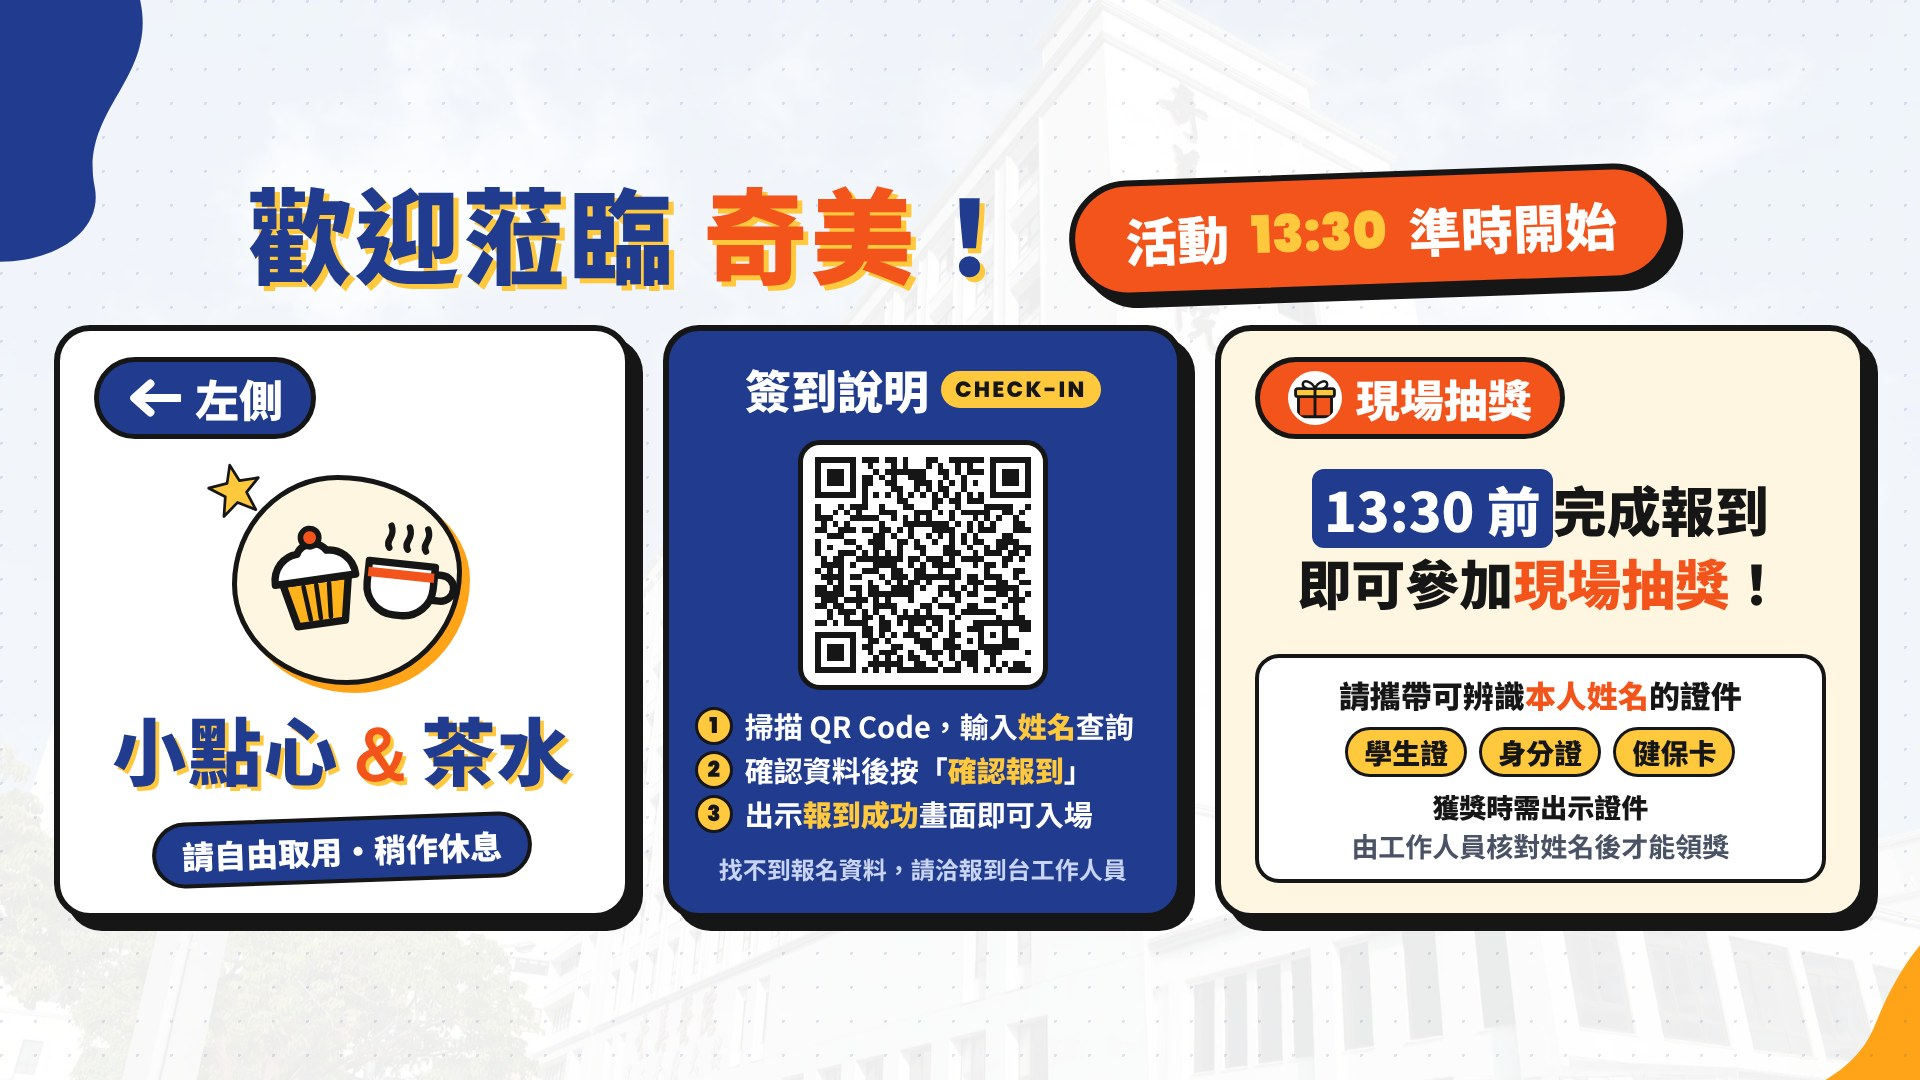
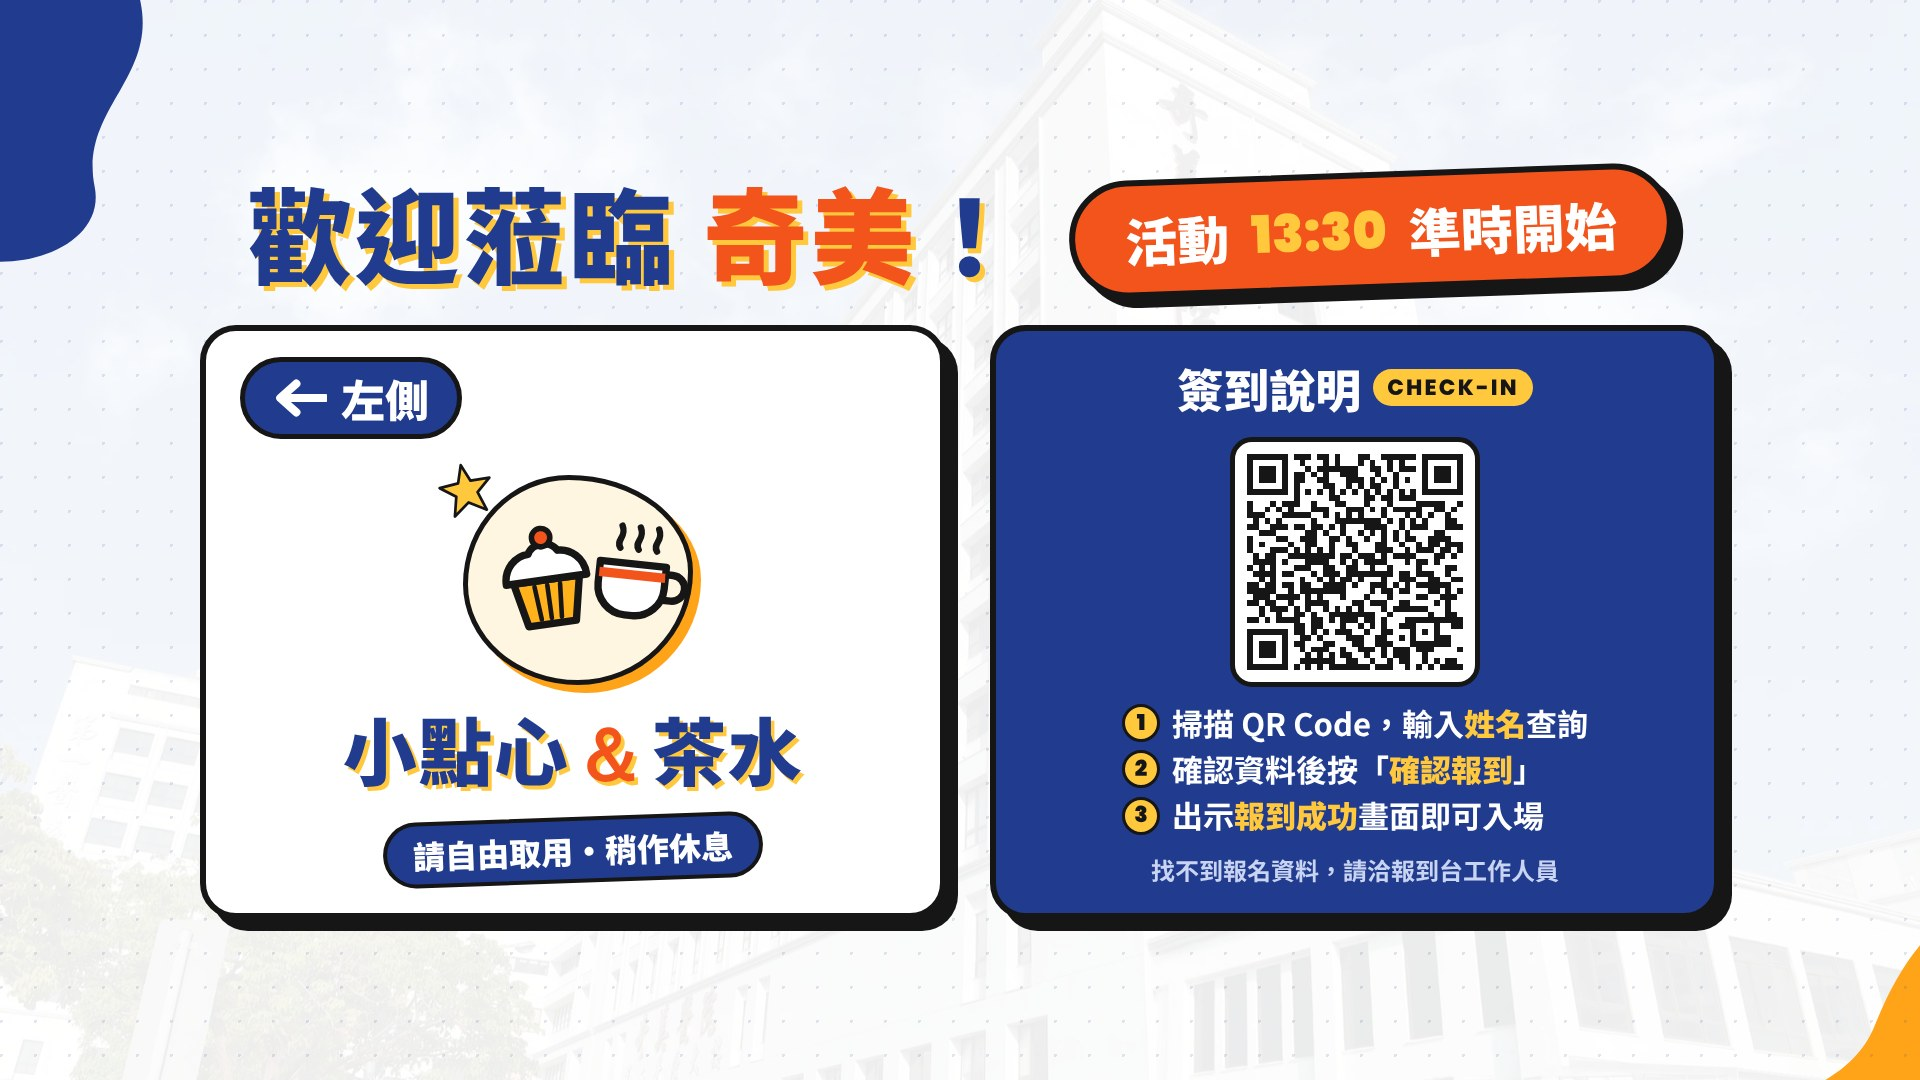
歌詞頁第 1 張圖：移除現場抽獎區塊，改為兩欄
Claude-Session: https://claude.ai/code/session_01HH3Uic7B7GKvdUspcu4Pwt

diff --git a/cmh_musiccc/photos/slides.html b/cmh_musiccc/photos/slides.html
@@ -42,8 +42,8 @@ h1 b{font-family:Poppins;font-weight:900}
 .s1-head{display:flex;align-items:center;gap:44px}
 .s1 h1{font-size:104px}
 .s1 .pill{font-size:52px;transform:rotate(-2deg)}
-.s1-row{display:flex;gap:32px;align-items:stretch;padding:0 54px;width:100%}
-.s1 .side{flex:1}
+.s1-row{display:flex;gap:44px;align-items:stretch;padding:0 200px;width:100%}
+.s1 .side{flex:1 1 0}
 .snack h3{font-size:44px}
 .snack-body{flex:1;display:flex;flex-direction:column;align-items:center;justify-content:center;text-align:center;gap:22px}
 .snack-ill{position:relative;width:300px;height:230px}
@@ -55,24 +55,11 @@ h1 b{font-family:Poppins;font-weight:900}
 .snack-t{font-size:74px;font-weight:900;color:var(--navy);text-shadow:.05em .05em 0 var(--yellow);line-height:1.1;letter-spacing:.02em}
 .snack-t span{color:var(--red);font-family:Poppins;margin:0 .05em}
 .snack-s{font-size:32px;font-weight:900;color:#fff;background:var(--navy);border:4px solid var(--ink);border-radius:999px;padding:6px 26px;transform:rotate(-2deg)}
-.checkin{width:560px;justify-content:space-evenly}
+.s1 .checkin{flex:1 1 0;width:auto;justify-content:space-evenly}
 .checkin .help{font-size:24px;font-weight:700;color:#C9D3F2;text-align:center}
-.lottery{justify-content:space-between}
 .checkin .qrbox{width:250px}
-.checkin .steps li{font-size:29px}
-.lottery{flex:1.15!important;background:var(--band)!important}
-.lottery h3{font-size:44px;background:var(--red)!important;color:#fff}
-.lottery h3 svg{width:54px;height:54px;background:#fff;border-radius:50%;padding:4px}
-.lt-main{font-size:54px;font-weight:900;line-height:1.35;text-align:center;margin:auto 0}
-.lt-main b{color:#fff;background:var(--navy);border-radius:12px;padding:0 12px}
-.lt-main em{font-style:normal;color:var(--red)}
-.id{background:#fff;border:4px solid var(--ink);border-radius:24px;padding:14px 18px;text-align:center;display:flex;flex-direction:column;gap:10px}
-.id-h{font-size:31px;font-weight:900}
-.id-h b{color:var(--red)}
-.ids{display:flex;justify-content:center;gap:12px}
-.ids span{font-size:28px;font-weight:900;background:var(--yellow);border:3px solid var(--ink);border-radius:999px;padding:2px 16px}
-.id-n{font-size:27px;font-weight:700;color:var(--muted);line-height:1.45}
-.id-n b{color:var(--ink)}
+.checkin .steps{width:auto}
+.checkin .steps li{font-size:31px}
 /* slide 2 */
 .s2{gap:40px}
 .s2 h1{font-size:120px}
@@ -138,15 +125,6 @@ h1 b{font-family:Poppins;font-weight:900}
         <li><i>3</i><span>出示<b>報到成功</b>畫面即可入場</span></li>
       </ol>
       <p class="help">找不到報名資料，請洽報到台工作人員</p>
-    </div>
-    <div class="side lottery">
-      <h3><svg viewBox="0 0 64 64"><rect x="9" y="28" width="46" height="30" rx="4" fill="#F2541B" stroke="#161616" stroke-width="4"/><rect x="5" y="19" width="54" height="11" rx="3" fill="#FFC83D" stroke="#161616" stroke-width="4"/><path d="M32 19v39" stroke="#161616" stroke-width="4"/><path d="M32 19c-4-10-17-14-17-6s13 6 17 6zM32 19c4-10 17-14 17-6s-13 6-17 6z" fill="#fff" stroke="#161616" stroke-width="3.5" stroke-linejoin="round"/></svg>現場抽獎</h3>
-      <p class="lt-main"><b>13:30 前</b>完成報到<br>即可參加<em>現場抽獎</em>！</p>
-      <div class="id">
-        <p class="id-h">請攜帶可辨識<b>本人姓名</b>的證件</p>
-        <div class="ids"><span>學生證</span><span>身分證</span><span>健保卡</span></div>
-        <p class="id-n"><b>獲獎時需出示證件</b><br>由工作人員核對姓名後才能領獎</p>
-      </div>
     </div>
   </div>
 </section>
